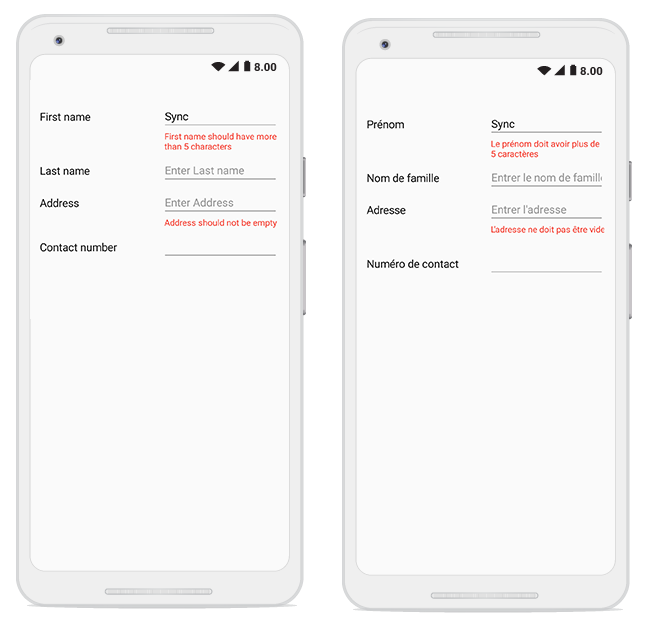
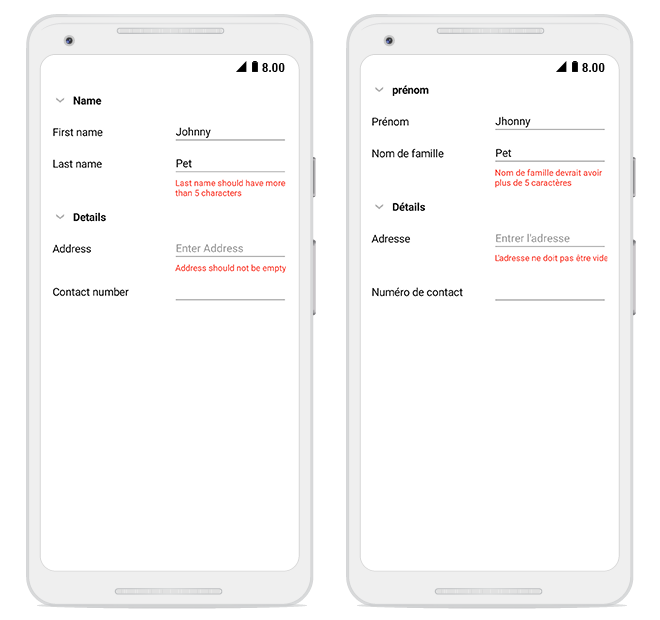
Localization image and content modified.

diff --git a/Xamarin/SfDataForm/Localization.md b/Xamarin/SfDataForm/Localization.md
@@ -27,7 +27,7 @@ ResourceType [Display](https://apisof.net/catalog/System.ComponentModel.DataAnno
 {% tabs %}
 {% highlight c# %}
 
-[Display(Name ="FirstName", Prompt = "EnterFirstName", ResourceType = typeof(Localization))]
+[Display(Name ="FirstName", Prompt = "EnterFirstName", GroupName ="Name", ResourceType = typeof(Localization))]
 public String FirstName { get; set; } 
 
 {% endhighlight %}
@@ -35,13 +35,15 @@ public String FirstName { get; set; }
 
 ### Using event
 
-You can also localize the DataFormItem LabelText, PlaceHolderText in the `AutoGeneratingDataFormItem` event of SfDataForm by using the Resources (.Resx) file.
+You can also localize the DataFormItem LabelText, PlaceHolderText, GroupName in the `AutoGeneratingDataFormItem` event of SfDataForm by using the Resources (.Resx) file.
 
-Here, Localization Resource File (.Resx) and accessed the localized string directly from it.
-
+Here, string member of .resx file will be accessed through the class (in resxFilename.Designer.cs) which was auto-generated when .resx file created and static string members get localized using [ResourceManager]https://msdn.microsoft.com/en-us/library/d17ax2xk(v=vs.110).aspx based on culture.
 
 {% tabs %}
 {% highlight c# %}
+
+[Display(GroupName ="Name")]
+public String FirstName { get; set; }
 
 dataForm.AutoGeneratingDataFormItem += DataForm_AutoGeneratingDataFormItem;
 private void DataForm_AutoGeneratingDataFormItem(object sender, AutoGeneratingDataFormItemEventArgs e)
@@ -53,6 +55,10 @@ private void DataForm_AutoGeneratingDataFormItem(object sender, AutoGeneratingDa
             e.DataFormItem.LabelText = Localization.FirstName;
             e.DataFormItem.PlaceHolderText = Localization.EnterFirstName;
         }
+        if (e.DataFormItem.GroupName == "Name")
+        {
+            e.DataFormItem.GroupName = Localization.Name;
+        }
     }
 }
 
@@ -61,7 +67,7 @@ private void DataForm_AutoGeneratingDataFormItem(object sender, AutoGeneratingDa
 
 ## Localizing validation error messages
 
-Here, the validation (Required,StringLength)  attributes or data form error messages get localized based on culture from Localization Resource File (.Resx).
+Here, the validation (Required,StringLength) attributes or data form error messages get localized based on culture from Localization Resource File (.Resx).
 
 ### Using attribute
 
@@ -81,7 +87,7 @@ public String FirstName { get; set; }
 
 You can also localize the data form error message in the ` Validating` event of SfDataForm by using the Resources (.Resx) file.
 
-Here, Localization Resource File (.Resx) and accessed the localized string directly from it.
+Here, string member of .resx file will be accessed through the class (in resxFilename.Designer.cs) which was auto-generated when .resx file created and static string members get localized using [ResourceManager]https://msdn.microsoft.com/en-us/library/d17ax2xk(v=vs.110).aspx based on culture.
 
 {% tabs %}
 {% highlight c# %}

diff --git a/Xamarin/SfDataForm/Editors.md b/Xamarin/SfDataForm/Editors.md
@@ -472,7 +472,7 @@ private void Button_Click(object sender, EventArgs e)
 
 ### Loading complex type property values in picker
 
-You can display the complex type property values in picker editor by using the GetSource override method of SourceProvider class, which is used to get source list as complex property values for picker editor and set it to `SourceProvider` property of SfDataForm. You need to use `AutoGeneratingDataFormItem `event to set [DisplayMemberPath](https://help.syncfusion.com/cr/cref_files/xamarin/Syncfusion.SfDataForm.XForms~Syncfusion.XForms.DataForm.DataFormPickerItem~DisplayMemberPath.html) and [ValueMemberPath](https://help.syncfusion.com/cr/cref_files/xamarin/Syncfusion.SfDataForm.XForms~Syncfusion.XForms.DataForm.DataFormPickerItem~ValueMemberPath.html) property value DataFormPickerItem for complex type property.
+You can display the complex type property values in picker editor by using the [GetSource](https://help.syncfusion.com/cr/xamarin/Syncfusion.SfDataForm.XForms~Syncfusion.XForms.DataForm.SourceProvider~GetSource.html) override method of SourceProvider class, which is used to get source list as complex property values for picker editor and set it to `SourceProvider` property of SfDataForm. You need to use `AutoGeneratingDataFormItem `event to set [DisplayMemberPath](https://help.syncfusion.com/cr/cref_files/xamarin/Syncfusion.SfDataForm.XForms~Syncfusion.XForms.DataForm.DataFormPickerItem~DisplayMemberPath.html) and [ValueMemberPath](https://help.syncfusion.com/cr/cref_files/xamarin/Syncfusion.SfDataForm.XForms~Syncfusion.XForms.DataForm.DataFormPickerItem~ValueMemberPath.html) property value DataFormPickerItem for complex type property.
 
 {% tabs %}
 {% highlight c# %}
